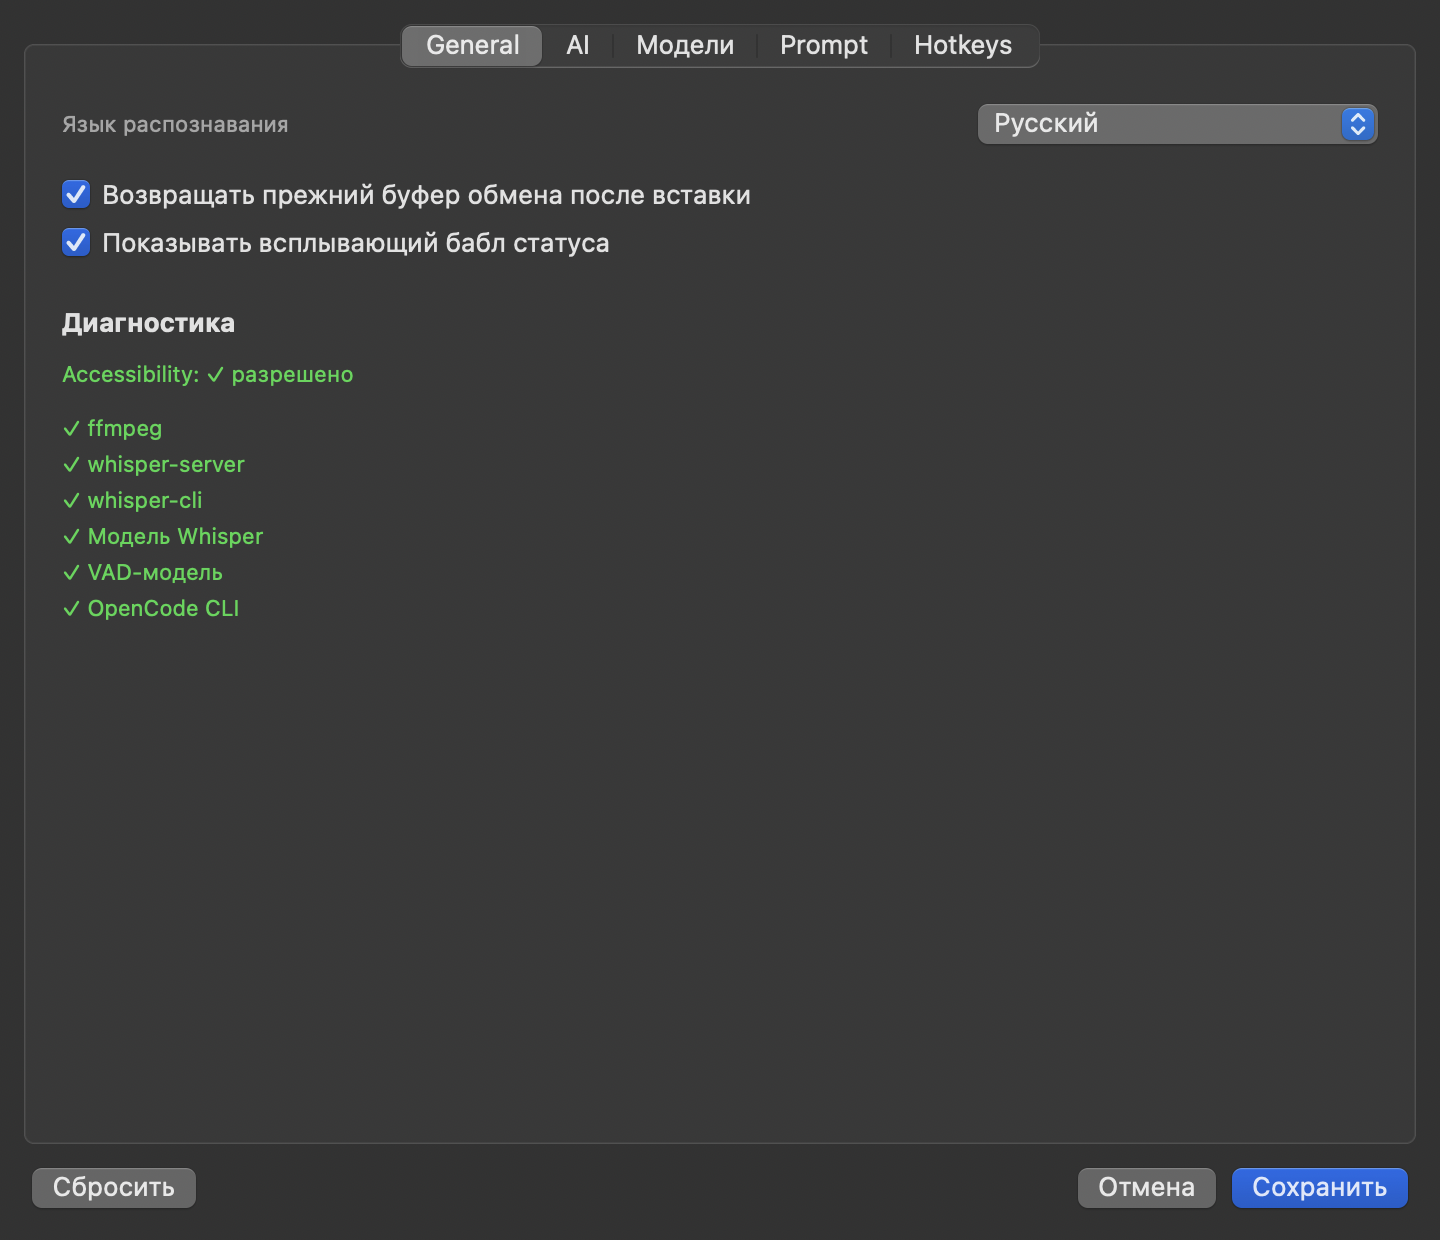
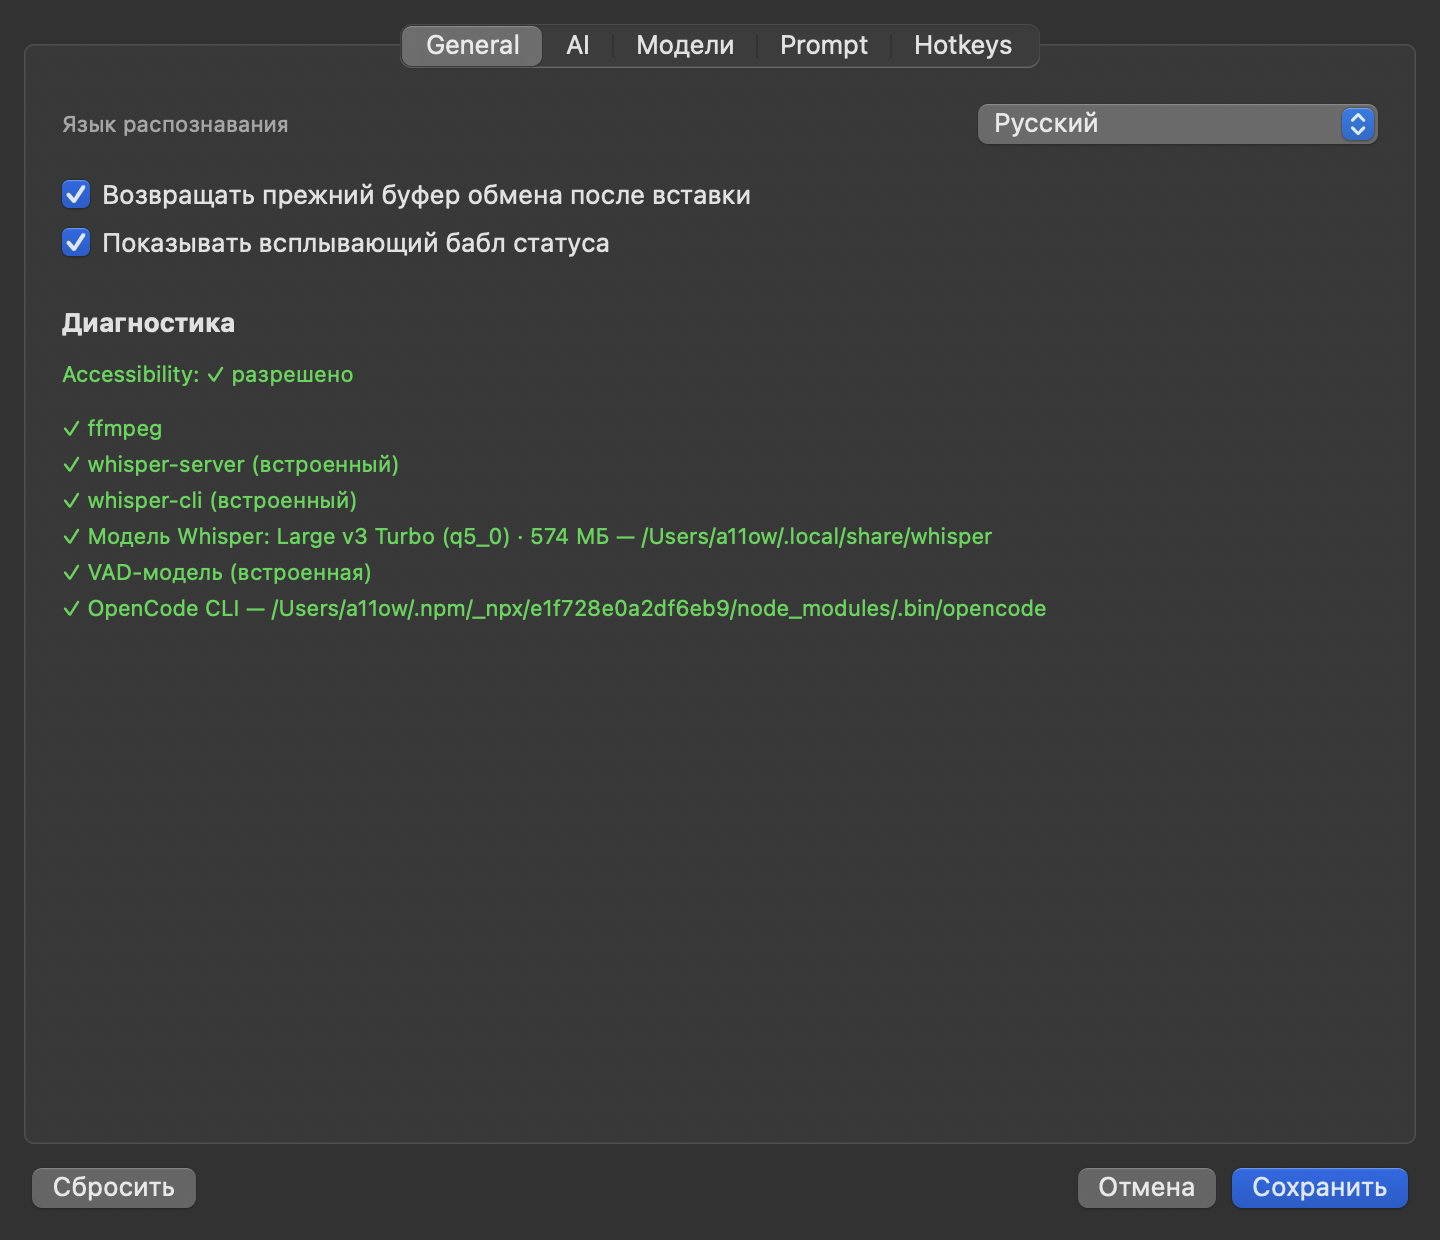
Диагностика: встроенный Whisper, активная модель и пути

Changed region(s): [[0.375, 0.429, 0.7188, 0.521], [0.1562, 0.3677, 0.3438, 0.521], [0.3438, 0.4903, 0.375, 0.521]]

diff --git a/app/UI/SettingsWindow.swift b/app/UI/SettingsWindow.swift
@@ -159,10 +159,16 @@ final class SettingsWindow: NSWindowController, NSWindowDelegate {
         depStack.alignment = .leading
         depStack.spacing = 4
         depStack.translatesAutoresizingMaskIntoConstraints = false
-        depLabels = Dependency.allCases.map { _ in label("") }
+        depLabels = Dependency.allCases.map { _ in
+            let field = label("")
+            field.lineBreakMode = .byTruncatingMiddle
+            field.setContentCompressionResistancePriority(.defaultLow, for: .horizontal)
+            return field
+        }
         for depLabel in depLabels {
             depLabel.translatesAutoresizingMaskIntoConstraints = false
             depStack.addArrangedSubview(depLabel)
+            depLabel.widthAnchor.constraint(equalTo: depStack.widthAnchor).isActive = true
         }
 
         let views: [NSView] = [languageLabel, languagePopup, restoreCheck, hudCheck,
@@ -196,7 +202,7 @@ final class SettingsWindow: NSWindowController, NSWindowDelegate {
 
             depStack.topAnchor.constraint(equalTo: accessButton.bottomAnchor, constant: 10),
             depStack.leadingAnchor.constraint(equalTo: view.leadingAnchor, constant: 16),
-            depStack.trailingAnchor.constraint(lessThanOrEqualTo: view.trailingAnchor, constant: -16),
+            depStack.trailingAnchor.constraint(equalTo: view.trailingAnchor, constant: -16),
         ])
 
         return view
@@ -837,17 +843,66 @@ final class SettingsWindow: NSWindowController, NSWindowDelegate {
 
         let settings = SettingsStore.load()
         for (index, dependency) in Dependency.allCases.enumerated() where index < depLabels.count {
-            if dependency == .opencode && !settings.useOpenCode {
-                depLabels[index].stringValue = "– OpenCode CLI (не используется)"
-                depLabels[index].textColor = .secondaryLabelColor
-                continue
-            }
+            let line = diagnosticLine(dependency, settings: settings)
+            depLabels[index].stringValue = line.text
+            depLabels[index].textColor = line.color
+            depLabels[index].toolTip = line.text
+        }
+    }
 
-            let available = dependency.isOK()
-            depLabels[index].stringValue = available
-                ? "✓ \(dependency.title)"
-                : "⚠ \(dependency.title) — \(dependency.expected)"
-            depLabels[index].textColor = available ? .systemGreen : .systemOrange
+    private func diagnosticLine(
+        _ dependency: Dependency,
+        settings: Settings
+    ) -> (text: String, color: NSColor) {
+        let fm = FileManager.default
+        switch dependency {
+        case .ffmpeg:
+            if fm.isExecutableFile(atPath: "/opt/homebrew/bin/ffmpeg") {
+                return ("✓ ffmpeg", .systemGreen)
+            }
+            return ("⚠ ffmpeg — не найден (brew install ffmpeg)", .systemOrange)
+
+        case .whisperServer:
+            if let path = WhisperModelStore.bundledServer?.path,
+               fm.isExecutableFile(atPath: path) {
+                return ("✓ whisper-server (встроенный)", .systemGreen)
+            }
+            return ("⚠ whisper-server — не найден в бандле", .systemOrange)
+
+        case .whisperCli:
+            if let path = WhisperModelStore.bundledCLI?.path,
+               fm.isExecutableFile(atPath: path) {
+                return ("✓ whisper-cli (встроенный)", .systemGreen)
+            }
+            return ("⚠ whisper-cli — не найден в бандле", .systemOrange)
+
+        case .whisperModel:
+            if let model = WhisperModelStore.activeModel(settings: settings) {
+                let title = WhisperModelCatalog.models
+                    .first { $0.fileName == model.fileName }?.title ?? model.fileName
+                let source = model.isManaged ? "скачана приложением" : model.directory
+                return ("✓ Модель Whisper: \(title) · \(model.sizeText) — \(source)", .systemGreen)
+            }
+            if settings.whisperModelPath.isEmpty {
+                return ("⚠ Модель Whisper не выбрана — Настройки → Модели", .systemOrange)
+            }
+            return ("⚠ Модель Whisper недоступна: \(settings.whisperModelPath)", .systemOrange)
+
+        case .vadModel:
+            if let path = WhisperModelStore.bundledVAD?.path,
+               fm.fileExists(atPath: path) {
+                return ("✓ VAD-модель (встроенная)", .systemGreen)
+            }
+            return ("⚠ VAD-модель — не найдена в бандле", .systemOrange)
+
+        case .opencode:
+            if !settings.useOpenCode {
+                return ("– OpenCode CLI (не используется)", .secondaryLabelColor)
+            }
+            if let path = OpenCodeLocator.find() {
+                return ("✓ OpenCode CLI — \(path)", .systemGreen)
+            }
+            return ("⚠ OpenCode CLI — не найден", .systemOrange)
         }
     }
 

diff --git a/README.md b/README.md
@@ -570,38 +570,66 @@ dictate.sh [toggle|start|stop|warmup]
 
 ## Логи и диагностика
 
-```sh
-# журнал диктовки: RAW — что услышал Whisper, FIXED — что вернула модель, paste — как вставилось
-cat "${TMPDIR%/}/opencode-dictate/dictate.log"
+Раздел **Диагностика** — в **Настройки → General**. Он показывает:
 
-# журнал сервера распознавания
-tail -f ~/Library/Logs/whisper-server.log
+| Строка | Что означает |
+|---|---|
+| `Accessibility: ✓/⚠` | доступ к глобальному хоткею и отправке ⌘V |
+| `ffmpeg` | запись с микрофона |
+| `whisper-server (встроенный)` | сервер распознавания из бандла |
+| `whisper-cli (встроенный)` | резервный распознаватель |
+| `Модель Whisper: <название> · <размер> — <путь>` | активная модель и её источник |
+| `VAD-модель (встроенная)` | отсечение тишины и галлюцинаций |
+| `OpenCode CLI` | постобработка; «не используется», если она выключена |
+
+Если модель не выбрана или файл пропал, строка становится оранжевой, а диктовка
+блокируется до выбора модели в **Настройки → Модели**.
+
+Логи:
+
+```sh
+# приложение: запуск, состояния HUD, хоткеи, вставка, прогрев
+tail -f ~/Library/Application\ Support/Runvoice/app.log
+
+# диктовка: модель, RAW, FIXED, вставка
+tail -f ~/Library/Application\ Support/Runvoice/state/dictate.log
+
+# whisper-server
+tail -f ~/Library/Application\ Support/Runvoice/state/whisper-server.log
 ```
 
 Типичные строки:
 
 | Строка | Значение |
 |---|---|
+| `hotkey fired: toggle` | хоткей сработал |
+| `state=recording / fixing / done` | смена состояния HUD |
 | `start: mic=N pid=…` | запись начата с устройства № N |
-| `stop: pcm_bytes=… mode=…` | запись остановлена |
-| `max_volume=… dB` | громкость записи; около `-90` — тишина |
-| `transcribe: whisper-server` | распознавание через постоянный сервер |
-| `transcribe: whisper-cli (сервер недоступен)` | сработал резервный режим |
-| `RAW: …` / `FIXED: …` | результат распознавания и правки |
-| `paste: pastev rc=0` | вставка отправлена |
-| `ERR …` | ошибка (текст виден и в окне статуса) |
+| `stop: pcm_bytes=…` | запись остановлена |
+| `max_volume=… dB` | громкость; около `-90` — тишина |
+| `transcribe: whisper-server model=…` | распознавание через сервер и выбранную модель |
+| `transcribe: whisper-cli (сервер недоступен)` | резервный режим |
+| `whisper: модель изменилась — перезапускаю сервер` | смена модели |
+| `warmup: …` / `warmup: готов` | прогрев после сохранения настроек |
+| `RAW: …` / `FIXED: …` | что услышал Whisper и что вернула модель |
+| `paste: app cgEvent` | ⌘V отправлен приложением |
+| `paste: accessibility denied` | нет Accessibility |
+| `model: скачана …` | модель успешно скачана |
+| `ERR …` | ошибка (видна и в HUD) |
 
 ---
 
 ## Решение проблем
 
 **Хоткей не срабатывает.**
-Проверьте, что `skhd` запущен (`pgrep -x skhd`) и что ему выдано разрешение
-**Accessibility**. Перезапуск: `skhd --restart-service`. Логи: `/tmp/skhd_<user>.err.log`.
+Проверьте, что приложению **Runvoice** выдано разрешение **Accessibility**, и что в
+`~/Library/Application Support/Runvoice/app.log` есть строки `event tap installed` и
+`hotkey fired: toggle`. Если строки `hotkey fired` нет — событие не доходит до
+приложения (другое приложение перехватило сочетание или нет Accessibility).
 
 **Запись не начинается / «не удалось начать запись (микрофон/права)».**
-Нет доступа к микрофону у `skhd`. Выдайте **Microphone** и повторите. Кэш индекса
-микрофона при этом сбрасывается автоматически.
+Нет доступа к микрофону у **Runvoice**. Выдайте **Microphone** и повторите.
+Кэш индекса микрофона при этом сбрасывается автоматически.
 
 **Распознаётся «тишина» или не то.**
 Смотрите `max_volume` в логе; при очень низком значении проверьте, что говорит
@@ -614,12 +642,14 @@ tail -f ~/Library/Logs/whisper-server.log
 что файл не редактировался и строки экспорта на месте.
 
 **Текст не вставляется вообще.**
-Проверьте строку `paste:` в логе. Возможные причины: не выдано **Accessibility** для
-`skhd`/`Runvoice`; пересоберите `bin/pastev`, если менялась система/компилятор.
+В приложении ⌘V отправляет сам Runvoice — `pastev` нужен только CLI-режиму.
+Проверьте строку `paste:` в `app.log`:
+`paste: app cgEvent` — вставка отправлена, `paste: accessibility denied` — нет доступа.
+Выдайте **Accessibility** для `Runvoice`.
 
-В приложении это видно сразу: **Настройки… → Диагностика** → «Accessibility: ⚠ нет доступа».
-Если стоит `paste: pastev rc=0`, а текст не появился — почти наверняка нет Accessibility
-(сам текст при этом лежит в буфере, проверяется через `pbpaste`).
+В приложении это видно сразу: **Настройки → General → Диагностика** → «Accessibility: ⚠ нет доступа».
+Если ⌘V отправлен, а текст не появился — скорее всего, фокус ушёл из нужного поля.
+Сам текст при этом лежит в буфере, проверяется через `pbpaste`.
 
 Если разрешение включено, но не применяется, сбросьте TCC-запись и выдайте доступ заново:
 
@@ -634,8 +664,11 @@ open -a /Applications/Runvoice.app
 `paste: accessibility denied`.
 
 **Слишком долго после нажатия «стоп».**
-Убедитесь, что `whisper-server` работает (`pgrep -f whisper-server`, порт 8799).
-Лог покажет `transcribe: whisper-server` или откат на `whisper-cli`.
+Проверьте активную модель в **Настройки → Модели**: `large-v3` заметно медленнее
+`large-v3-turbo-q5_0`, а `tiny`/`base` наоборот быстрее, но менее точны.
+Сервер прогревается после сохранения настроек; при смене модели он перезапускается
+и первый раз может загружаться дольше. Лог покажет
+`transcribe: whisper-server model=…` или откат на `whisper-cli`.
 
 **Появилось много зависших `ffmpeg`.**
 Не должно происходить (есть блокировка и дебаунс). Если всё же случилось:
@@ -645,7 +678,10 @@ pkill -f 'rec\.pcm'
 ```
 
 **Окно статуса не появляется.**
-Проверьте `bin/dictatehud` (права `+x`) и пересоберите его при необходимости.
+Проверьте, что в настройках включён «Показывать всплывающий бабл статуса».
+Если значок Runvoice не виден в меню-баре (вырез/переполнение), приложение
+показывает иконку в Dock. Старый `bin/dictatehud` относится к CLI-режиму и в
+приложении не используется.
 
 **Ошибка OpenCode `ServiceUnavailableError ... free tier`.**
 Выбрана free-модель. Укажите модель с ключом: `OC_MODEL_ID=deepseek-flash`.
@@ -658,18 +694,16 @@ pkill -f 'rec\.pcm'
 # пересборка и переустановка приложения
 make install-app
 
-# перезапуск хоткеев после правки ~/.skhdrc
-skhd --restart-service
-
 # перезапуск сервера распознавания
-launchctl kickstart -k gui/$(id -u)/ai.opencode.whisper-server
-
-# пересборка помощников
-cc -O2 -framework ApplicationServices -o bin/pastev bin/pastev.c
-swiftc -O -o bin/dictatehud bin/dictatehud.swift
+# (приложение поднимет его снова при следующей диктовке или сохранении настроек)
+pkill -f 'Runvoice.app/Contents/Resources/whisper/bin/whisper-server'
 
 # проверка синтаксиса скрипта
 bash -n bin/dictate.sh
+
+# CLI-режим: помощники
+cc -O2 -framework ApplicationServices -o bin/pastev bin/pastev.c
+swiftc -O -o bin/dictatehud bin/dictatehud.swift
 ```
 
 ---
@@ -677,13 +711,16 @@ bash -n bin/dictate.sh
 ## Ограничения
 
 - Только macOS — используются специфичные для системы API: `avfoundation`, `pbcopy`,
-  `CGEvent`, AppKit, а также `skhd` для глобальных хоткеев.
+  `CGEvent`, AppKit; CLI-режим дополнительно требует `skhd`.
+- Модель Whisper не входит в бандл: скачивается в **Настройки → Модели**
+  (от ~78 МБ для `tiny` до ~3,1 ГБ для `large-v3`).
+- `whisper-server` постоянно держит модель в памяти — примерно от 0,3 до 3 ГБ
+  в зависимости от выбранной модели.
 - `ffmpeg`/AVFoundation начинает писать звук через ~0.2–0.4 с после запуска —
   самая первая доля секунды может не попасть в запись.
 - При остановке возможна потеря последних миллисекунд звука (буфер).
 - Клавиша **⌥Space** перехватывается глобально (в обычных приложениях она больше
   не вставляет неразрывный пробел).
-- `whisper-server` постоянно держит модель в памяти (~0.7 ГБ).
 - Используется **экспериментальный** эндпоинт OpenCode `/api/experimental/generate` —
   он может измениться в новых версиях.
 - Распознавание однопоточное по запросу: параллельные диктовки не поддерживаются
